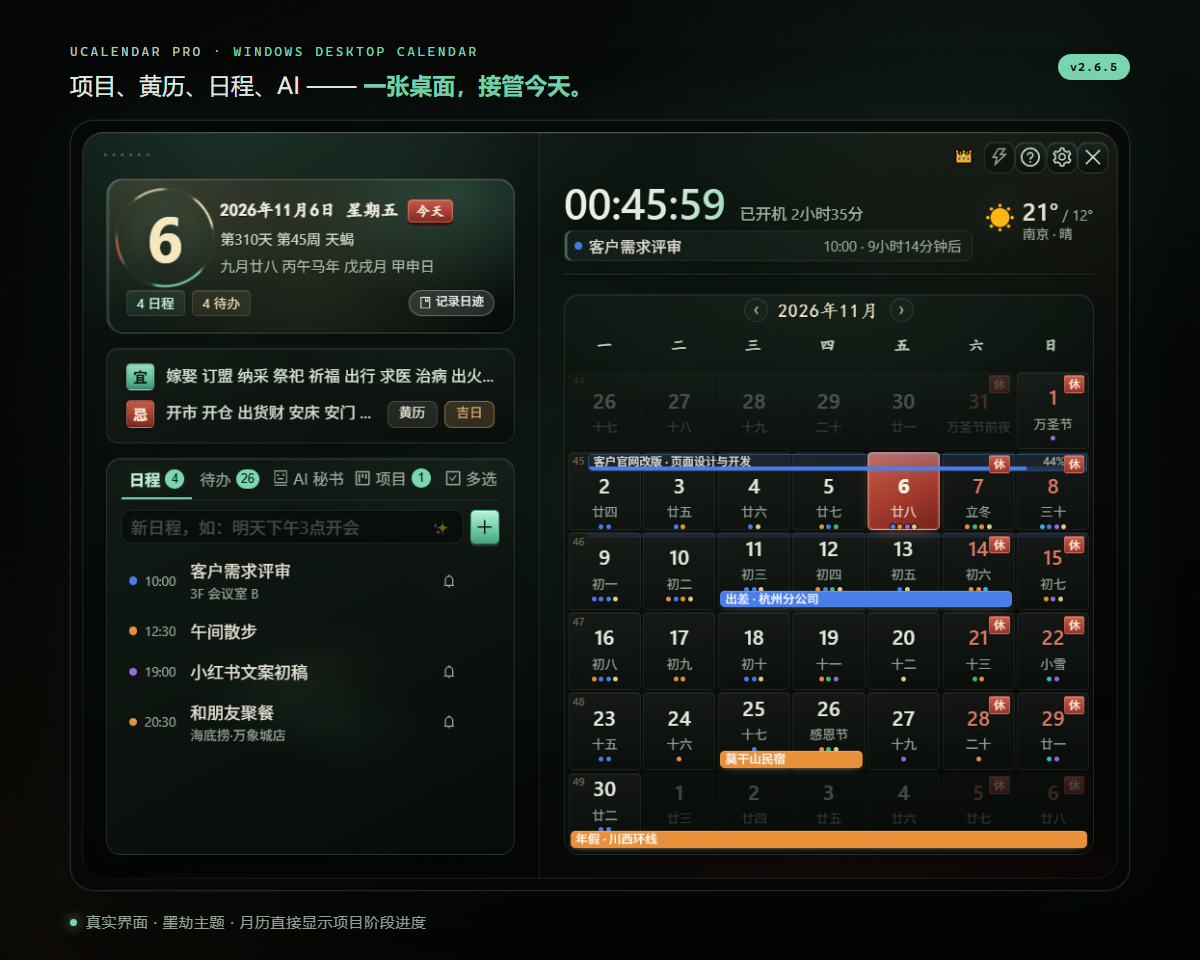
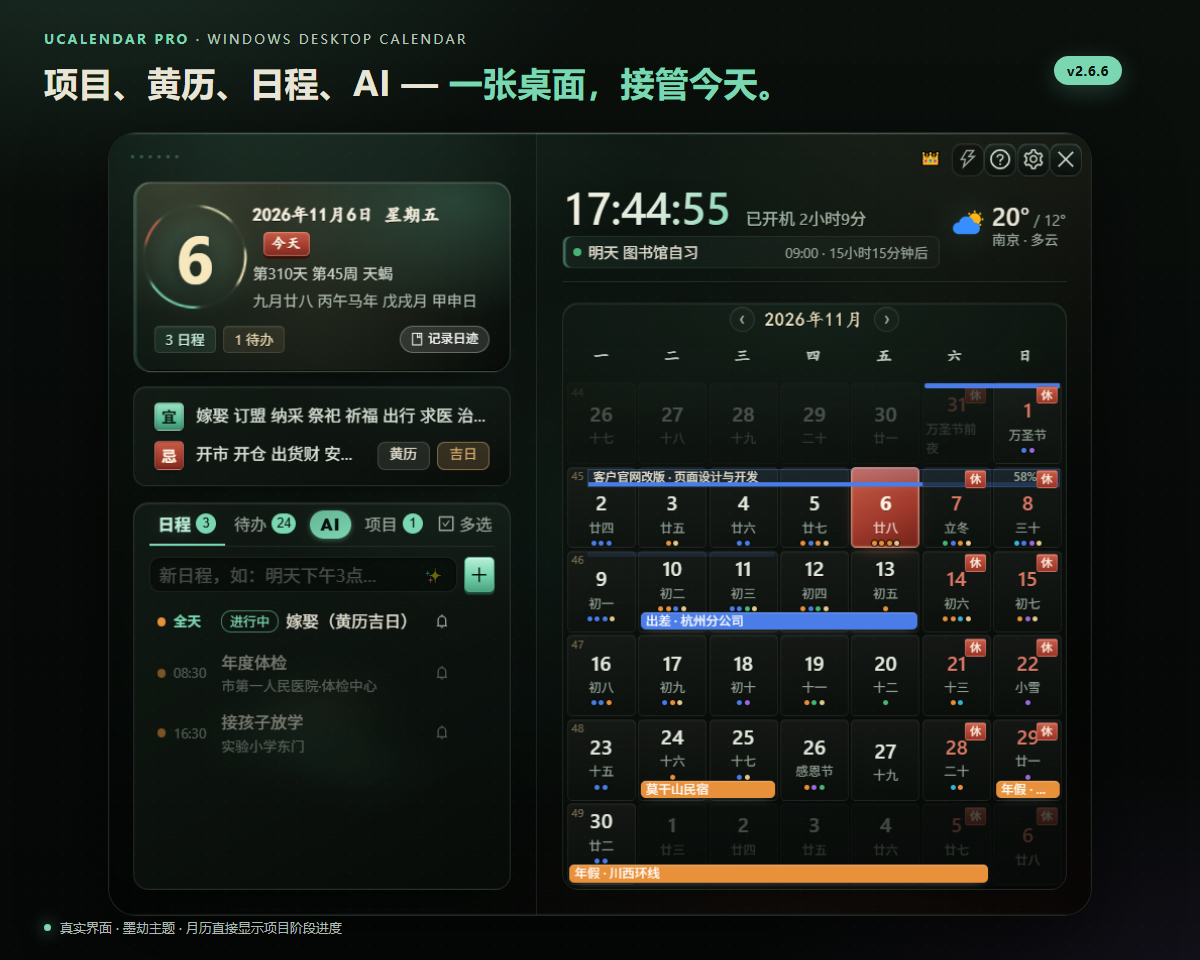
docs: 更新 v2.6.6 README 与功能截图

diff --git a/README.md b/README.md
@@ -66,6 +66,10 @@
 
 全部组件支持拖动、缩放、透明度、锁定位置、鼠标穿透；单个可收成 40px 摘要条，`Ctrl+Alt+H` 一键专注模式。**开穿透期间组件浮在最上层**，不被资源管理器等窗口盖住。
 
+- **拖动吸附**：拖动时实时吸附屏幕 / 组件边缘与中线，松手保持；按住 `Shift` 临时关闭
+- **组件外观**：Pro 支持磨砂玻璃、字体 / 字号 / 前景色；可「应用到全部」或「恢复当前 / 恢复全部」（只重置尺寸与外观）
+- **桌面日历视图**：完整月历 / 周视图 / 焦点视图，宽窗时间网格、窄窗自动周议程
+
 ## 06 — 21 套主题，换一种桌面气质
 
 <p align="center">
@@ -117,10 +121,12 @@ AI：已写入日历
 - **便签落库**：SQLite 持久化，支持标签、删除进回收站、Markdown 导出，旧 localStorage 自动迁移
 - **项目阶段**：项目和阶段、日程 / 待办归属；月历项目条、项目页时间轴、阶段到期提醒，点项目条直达项目窗口
 - **日历**：农历 / 节气 / 节假日调休 / 黄历宜忌；日程支持自然语言输入、重复规则
+- **日历视图**：桌面日历可切完整月历 / 周视图 / 焦点视图；周视图宽窗时间网格、窄窗自动收成周议程，设置内可“应用到全部 / 恢复全部”组件外观
 - **黄历 / 吉日**：独立窗查 1900–2100 宜忌与释义，离线可用；吉日可直接加日程或写项目阶段
 - **语音播报**：整点报时、久坐提醒、日程提醒，可换音色与语速，报时文案支持变量
 - **主题**：21 套（深色 / 浅色 / 护眼 / 暖阳 / 粉蓝 / 浅紫 / 霞樱 / 青岚 / 黛蓝 / 檀棕 + 支持者专属「金曜」「流光」「流银」「蓝图」「超立方」「奇点」「霓虹」「量子」「棱镜」「泰坦」「墨劫」）
 - **默认主题**：Pro 首启「墨劫」（未解锁高级主题时回退「粉蓝」），Lite 首启「深色」；已经选过主题的用户保持自己的选择
+- **面板入口**：日程 / 待办 / AI / 项目 / 多选一屏可达；AI 用紧凑胶囊按钮，随主题换色，不挤占工具行
 - **入口**：左键任务栏时钟呼出面板，右键是自绘快捷卡片，托盘图标常驻，`Ctrl+Alt+C` 全局热键，支持开机自启
 - **数据**：默认在 `%LOCALAPPDATA%\UCalendar`；exe 同目录有 `data\` 时使用便携目录，拷走文件夹 = 带走全部数据
 
